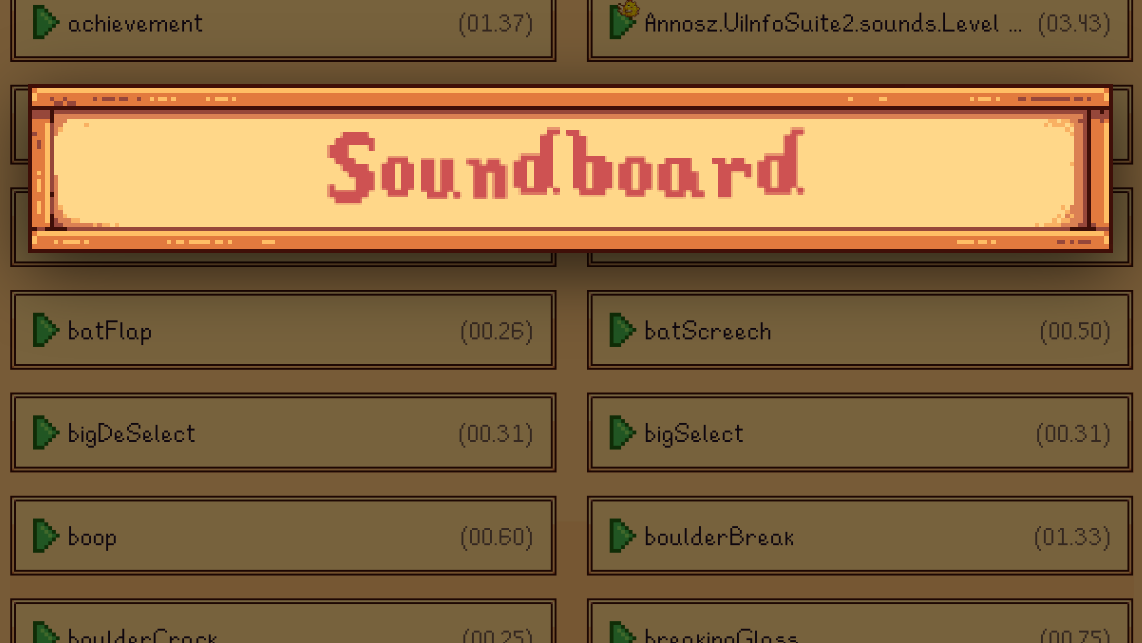
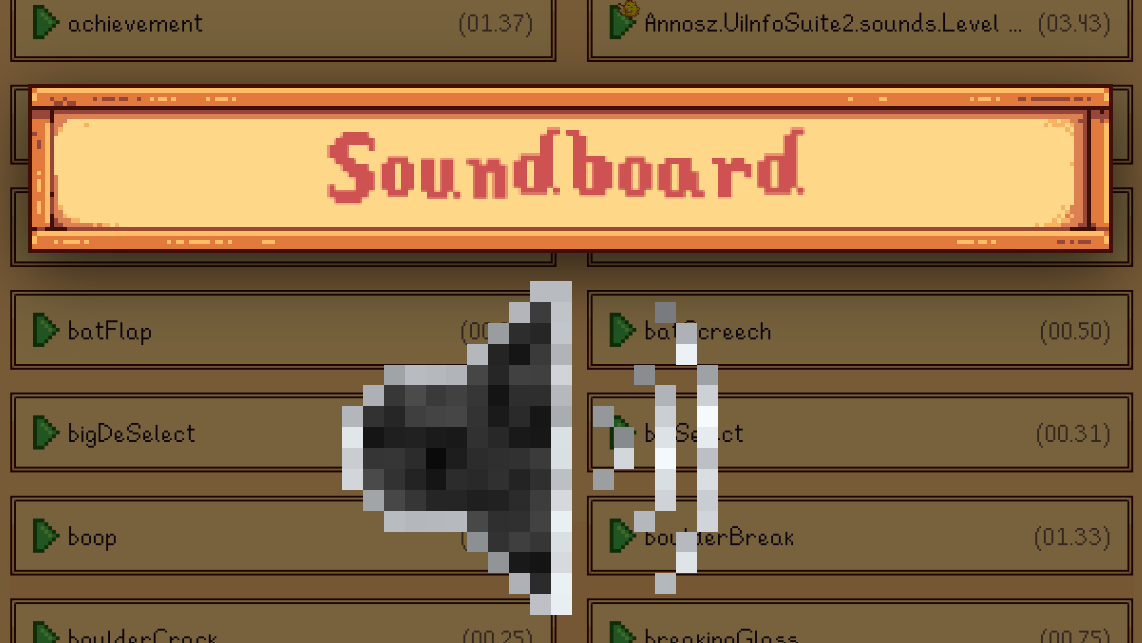
Log cue Id on play, copy to clipboard too if config allows it.

Changed region(s): [[0.2758, 0.4355, 0.6436, 0.9642]]

diff --git a/Soundboard/ModEntry.cs b/Soundboard/ModEntry.cs
@@ -101,6 +101,13 @@ namespace Soundboard
             );
             gmcm?.AddBoolOption(
                 mod: ModManifest,
+                name: () => Helper.Translation.Get("Config.Copy"),
+                tooltip: () => Helper.Translation.Get("Config.Copy.Desc"),
+                getValue: () => ModConfig.CopyOnPlay,
+                setValue: value => ModConfig.CopyOnPlay = value
+            );
+            gmcm?.AddBoolOption(
+                mod: ModManifest,
                 name: () => Helper.Translation.Get("Config.Tooltips"),
                 tooltip: () => Helper.Translation.Get("Config.Tooltips.Desc"),
                 getValue: () => ModConfig.ForceTooltips,

diff --git a/Soundboard/Sound.cs b/Soundboard/Sound.cs
@@ -85,6 +85,8 @@ public partial class Sound
         if (_cue.IsPlaying || IsPlaying) _cue.Stop(AudioStopOptions.Immediate);
         _cue.Play();
         IsPlaying = true;
+        Log.Info($"Now playing: {Id}");
+        if (ModEntry.ModConfig.CopyOnPlay) DesktopClipboard.SetText(Id);
     }
 
     public void Stop()

diff --git a/Soundboard/ModConfig.cs b/Soundboard/ModConfig.cs
@@ -5,6 +5,7 @@ namespace Soundboard;
 public class ModConfig
 {
     public SButton Keybind { get; set; } = SButton.F3;
+    public bool CopyOnPlay { get; set; } = false;
     public bool ForceTooltips { get; set; } = false;
     public bool VanillaOnly { get; set; } = false;
 }
